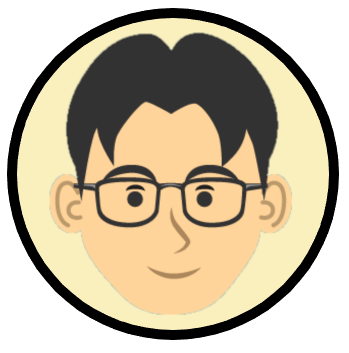
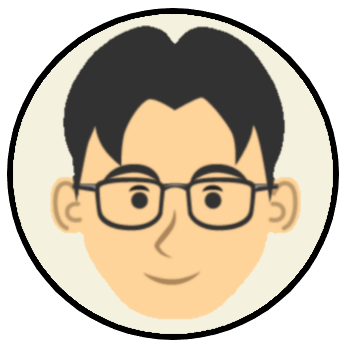
css and image updates

diff --git a/static/css/index.css b/static/css/index.css
@@ -17,8 +17,8 @@
   height: 72px;
   /*background-color: #ffffff;*/
   /*background-color: #FAF0BE;*/
-  background-color: #f3e5ab;
-
+  /*background-color: #f3e5ab;*/
+	background-color: #81b29a;
 }
 .right-btn{
 	margin-right: 16px;
@@ -34,12 +34,13 @@
 	margin-right: auto;
 	margin-top: 30px;
 	display: block;
-	border: 10px solid #f3e5ab;
+	border: 10px solid #81b29a;
 }
 #total-cont{
   /*background-color: #FAF0BE;*/
   /*background-color: #ffffff;*/
-  background-color: #fafad2;
+  /*background-color: #fafad2;*/
+	background-color: #f4f1de;
 	padding-bottom: 50px;
 }
 .aboutme-title{
@@ -135,7 +136,8 @@ html, body{
 	width: 100%;
 }
 body{
-  background-color: #fafad2;
+  /*background-color: #fafad2;*/
+	background-color: #f4f1de;
 }
 #mail-link{
 	position:relative;

diff --git a/templates/index.html b/templates/index.html
@@ -28,7 +28,7 @@
         <div class="container-fluid">
             <div class="row top-marg" >
                 <div class="col"id="top-level">
-                    <img id="prof-pic" src="../static/img/cartoonproflight.png">
+                    <img id="prof-pic" src="../static/img/cartoonprof.png">
                     <h1 id="name-header">Jack Fordyce</h1>
                     <h3 id="title-header">Software Engineer</h3>
                     <a href="mailto:jackmitchellfordyce@gmail.com" target="_blank" id="mail-link"><img class="mail-btn" src="../static/img/emailpic.png"></a>
